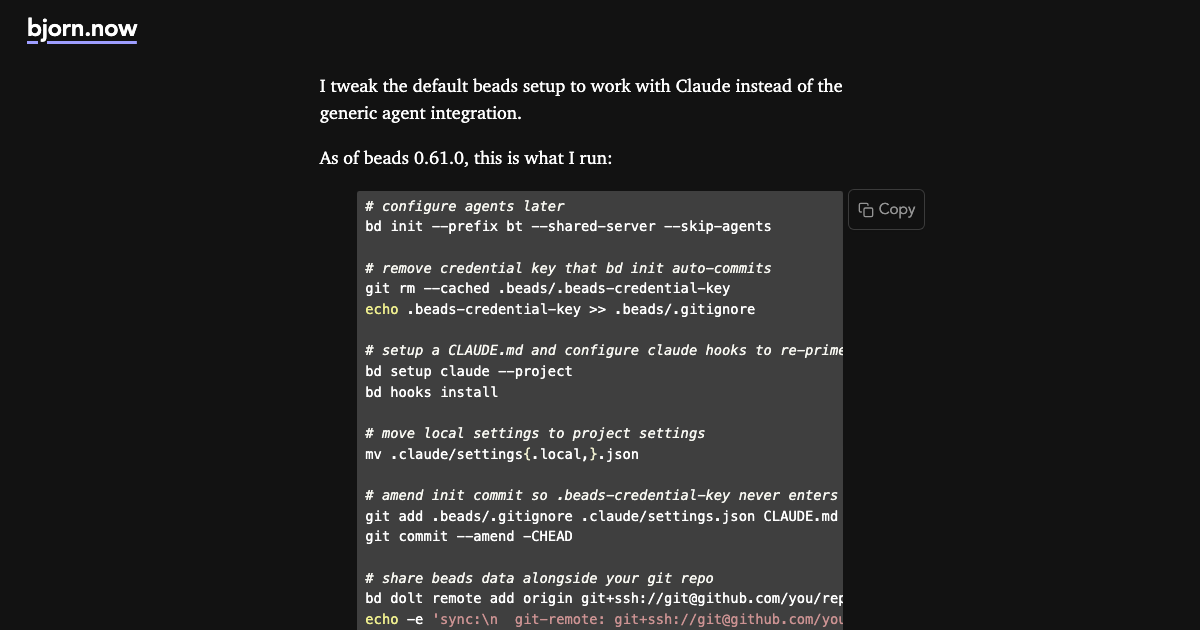
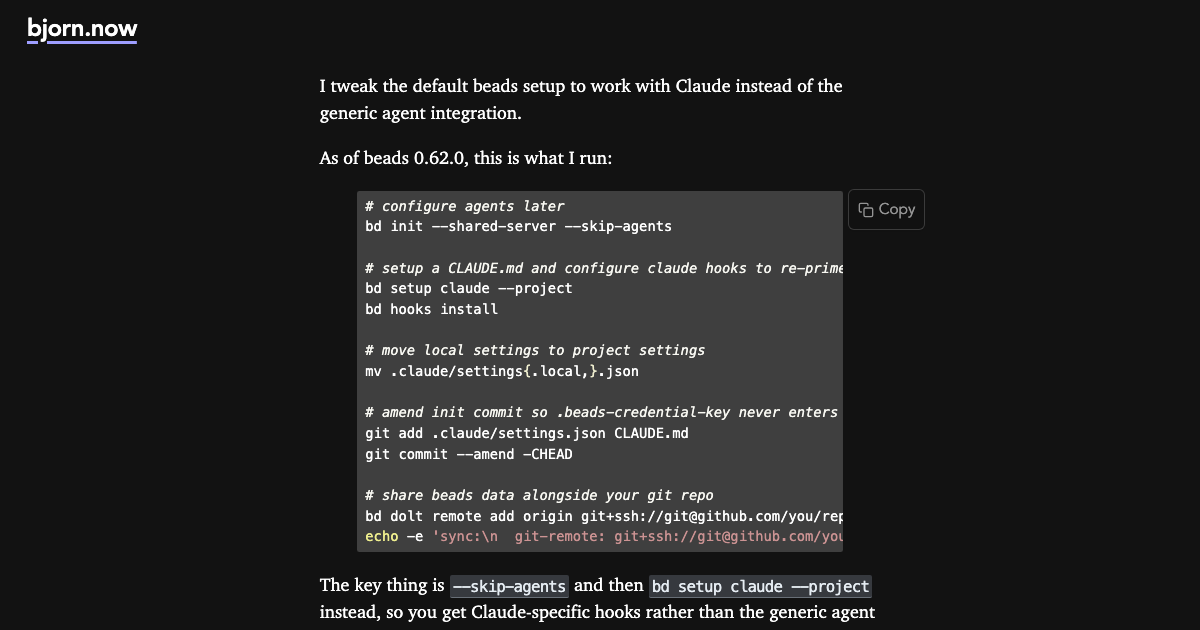
Remove the .beads-credential-key part
As of beads 0.62.0 it is no longer needed

diff --git a/content/til/2026-03-20-how-i-configure-beads-for-new-projects.md b/content/til/2026-03-20-how-i-configure-beads-for-new-projects.md
@@ -1,7 +1,7 @@
 ---
 authors: ['björn']
 date: '2026-03-20T12:31:05+01:00'
-lastmod: '2026-03-20T13:52:35+01:00'
+lastmod: '2026-03-22T11:36:00+01:00'
 location: Sweden
 full: true
 title: 'How I configure beads for new projects'
@@ -11,15 +11,11 @@ series: []
 ---
 I tweak the default beads setup to work with Claude instead of the generic agent integration.
 
-As of beads 0.61.0, this is what I run:
+As of beads 0.62.0, this is what I run:
 
 ```shell
 # configure agents later
-bd init --prefix bt --shared-server --skip-agents
-
-# remove credential key that bd init auto-commits
-git rm --cached .beads/.beads-credential-key
-echo .beads-credential-key >> .beads/.gitignore
+bd init --shared-server --skip-agents
 
 # setup a CLAUDE.md and configure claude hooks to re-prime beads
 bd setup claude --project
@@ -29,7 +25,7 @@ bd hooks install
 mv .claude/settings{.local,}.json
 
 # amend init commit so .beads-credential-key never enters git
-git add .beads/.gitignore .claude/settings.json CLAUDE.md
+git add .claude/settings.json CLAUDE.md
 git commit --amend -CHEAD
 
 # share beads data alongside your git repo
